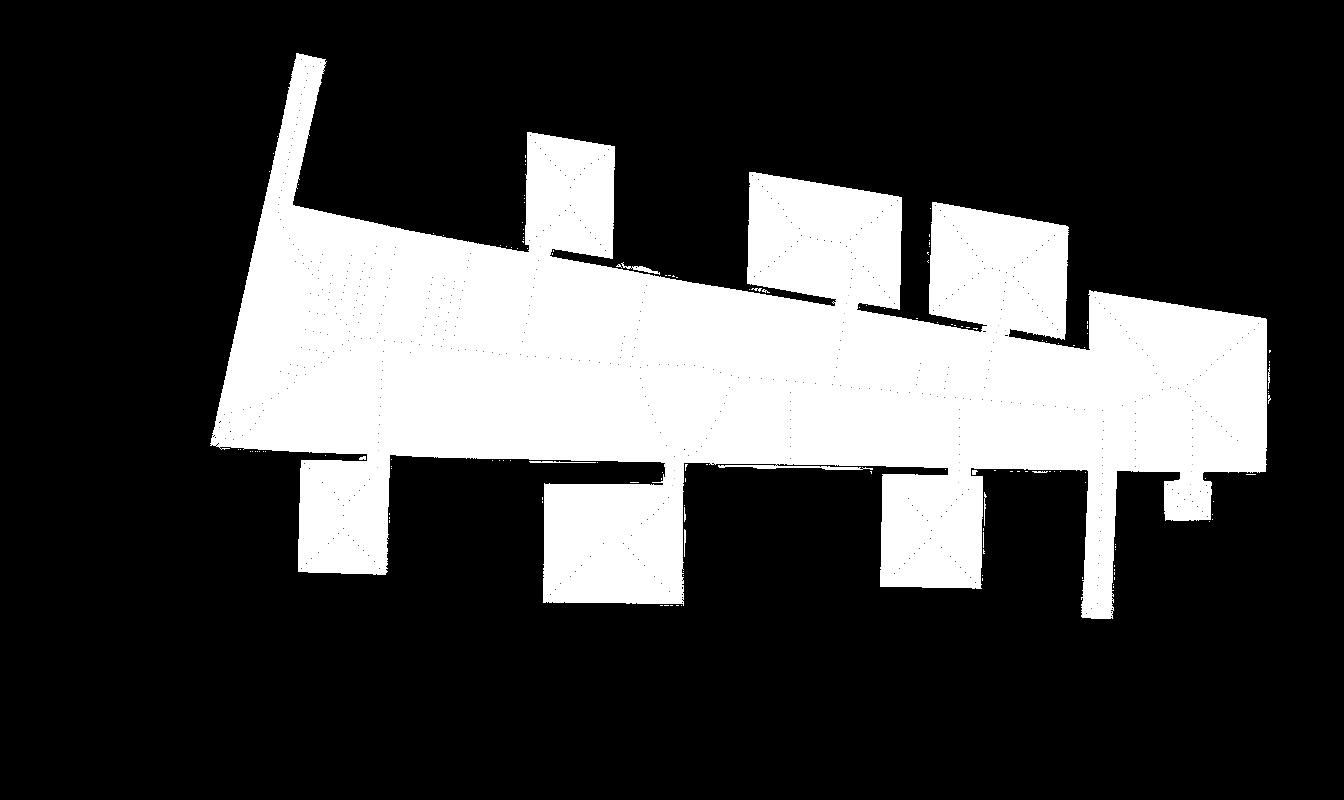
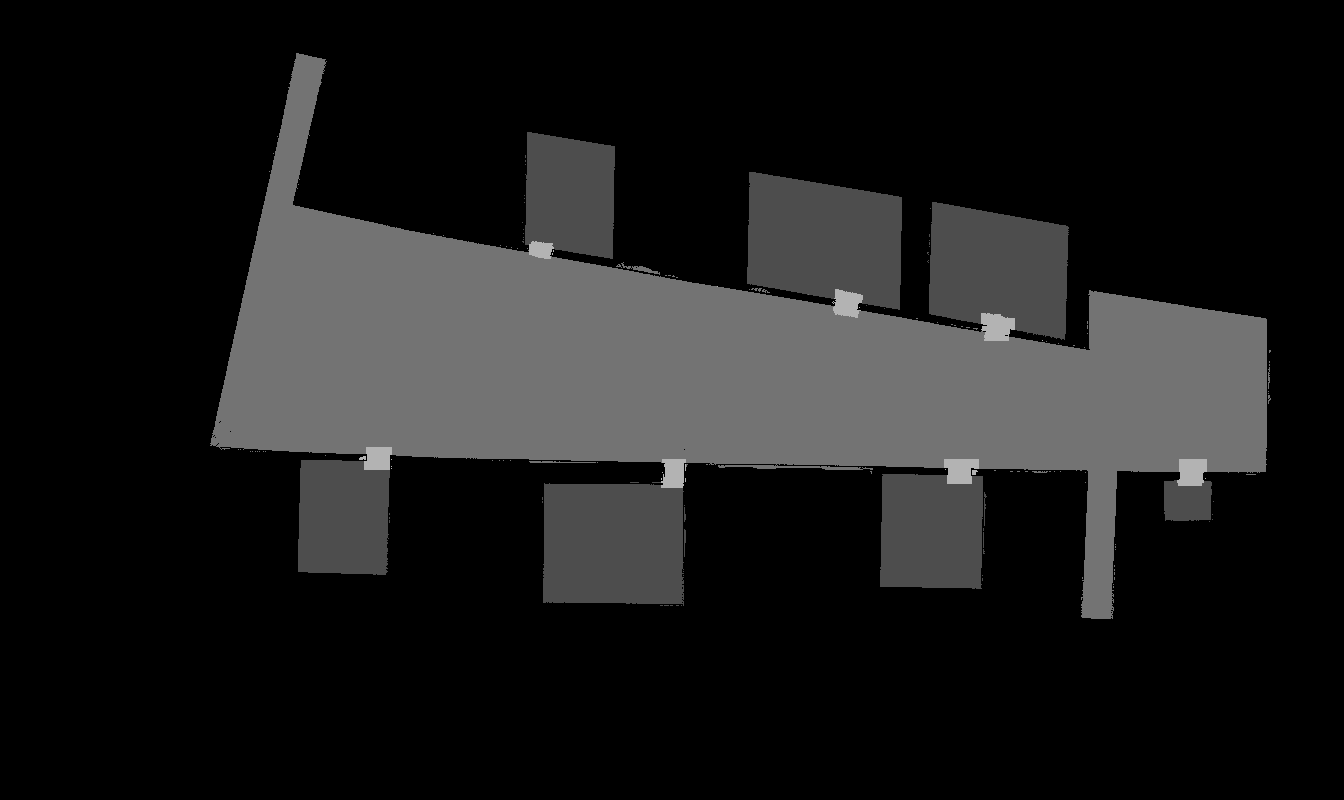
changed vrf-training to completely labeled traning maps

Changed region(s): [[0.1562, 0.0625, 0.9688, 0.7812]]

diff --git a/ipa_room_segmentation/common/src/voronoi_random_field_segmentation.cpp b/ipa_room_segmentation/common/src/voronoi_random_field_segmentation.cpp
@@ -836,7 +836,9 @@ void VoronoiRandomFieldSegmentation::findConditionalWeights(std::vector< std::ve
 //			would be really hard to do directly, a log-likelihood estimation is applied.
 void VoronoiRandomFieldSegmentation::trainAlgorithms(const std::vector<cv::Mat>& original_maps, const std::vector<cv::Mat>& training_maps,
 		std::vector<cv::Mat>& voronoi_maps, const std::vector<cv::Mat>& voronoi_node_maps,
-		std::vector<unsigned int>& possible_labels, const std::string weights_filepath, const std::string boost_filepath)
+		std::vector<unsigned int>& possible_labels, const std::string weights_filepath, const std::string boost_filepath,
+		const int epsilon_for_neighborhood, const int max_iterations, const int min_neighborhood_size,
+		const double min_node_distance)
 {
 	// ********** I. Go trough each map and find the drawn node-points for it and check if it is a voronoi-node. *****************
 	std::vector<std::set<cv::Point, cv_Point_comp> > random_field_node_points, voronoi_node_points;
@@ -863,7 +865,7 @@ void VoronoiRandomFieldSegmentation::trainAlgorithms(const std::vector<cv::Mat>&
 				{
 					// check if the current point is a voronoi-node by checking the color in the voronoi-node map
 					if(current_voronoi_node_map.at<unsigned char>(v, u) != 255 && current_voronoi_node_map.at<unsigned char>(v, u) != 0)
-						current_voronoi_nodes.insert(cv::Point(u,v));
+						current_voronoi_nodes.insert(cv::Point(u, v));
 				}
 			}
 		}
@@ -874,16 +876,13 @@ void VoronoiRandomFieldSegmentation::trainAlgorithms(const std::vector<cv::Mat>&
 		}
 
 		// todo: read in a fully labeled map (not only points) and generate current_nodes accordingly
-		// take the points from thinned out voronoi_maps
-		for(size_t v = 0; v < current_map.rows; ++v)
-		{
-			for(size_t u = 0; u < current_map.cols; ++u)
-			{
-				// if a pixel is drawn in a color different than white or black it is a node of the conditional field
-				if(current_map.at<unsigned char>(v, u) != 255 && current_map.at<unsigned char>(v, u) != 0)
-					current_nodes.insert(cv::Point(u,v));
-			}
-		}
+		// find the conditional random field nodes for the current map
+		cv::Mat distance_map; //distance-map of the original-map (used to check the distance of each point to nearest black pixel)
+		cv::distanceTransform(original_maps[current_map_index], distance_map, CV_DIST_L2, 5);
+		cv::convertScaleAbs(distance_map, distance_map);
+
+		// find all nodes for the conditional random field
+		findConditonalNodes(current_nodes, voronoi_maps[current_map_index], distance_map, current_voronoi_nodes, epsilon_for_neighborhood, max_iterations, min_neighborhood_size, min_node_distance);
 
 		// save the found nodes
 		random_field_node_points.push_back(current_nodes);
@@ -920,7 +919,6 @@ void VoronoiRandomFieldSegmentation::trainAlgorithms(const std::vector<cv::Mat>&
 //  2. It reduces the graph until the nodes in the graph. A node is a point on the voronoi graph, that has at least 3
 //	   neighbors. This deletes errors from the approximate generation of the graph that hasn't been eliminated from
 //	   the drawVoronoi function. the resulting graph is the pruned generalized voronoi graph.
-//	3. It returns the map that has the pruned generalized voronoi-graph drawn in.
 void VoronoiRandomFieldSegmentation::createPrunedVoronoiGraph(cv::Mat& map_for_voronoi_generation, std::set<cv::Point, cv_Point_comp>& node_points)
 {
 	//********************1. Create the Voronoi graph******************************
@@ -928,6 +926,125 @@ void VoronoiRandomFieldSegmentation::createPrunedVoronoiGraph(cv::Mat& map_for_v
 
 	//********************2. Reduce the graph until its nodes******************************
 	pruneVoronoiGraph(map_for_voronoi_generation, node_points);
+}
+
+// This function finds nodes for the conditional random field.
+//	It looks at a given pruned voronoi graph and concentrates a defined region on this graph into one point, that is
+//	used as a node in a graph. In this graph nodes are connected, that
+//		i) are right beside each other
+//		ii) and if a Point in the graph has three or more neighbors all of these four nodes are connected to each other
+//	so that different cliques occur. This is necessary for using a Conditional Random Filed to label the nodes as a
+//	defined class. To do so the following steps are done:
+//		1. Add the previously found node points on the voronoi graph to the Conditional Random Field graph. The algorithm
+//		   checks if they are too close to each other and only adds one of these close points to the crf.
+//		2. Look at an epsilon neighborhood on the graph and choose the point farthest away from the black pixels as
+//		   point for the crf. The farthest point is chosen, because else it would be possible  that the chosen point
+//		   is too near at the black pixels. Also the new node has to be more far away than a defined  min. distance to
+//		   each already found node s.t. two nodes are not too close to each other, or else the  crf would be created wrong.
+void VoronoiRandomFieldSegmentation::findConditonalNodes(std::set<cv::Point, cv_Point_comp>&  conditional_nodes,
+		const cv::Mat& voronoi_map,	const cv::Mat& distance_map, const std::set<cv::Point, cv_Point_comp>& voronoi_nodes,
+		const int epsilon_for_neighborhood,	const int max_iterations, const int min_neighborhood_size,
+		const double min_node_distance)
+{
+	// add the given voronoi nodes as conditional nodes, if they are far away enough from each other
+	for(std::set<cv::Point, cv_Point_comp>::iterator node = voronoi_nodes.begin(); node != voronoi_nodes.end(); ++node)
+	{
+		if(pointMoreFarAway(conditional_nodes, *node, min_node_distance) == true)
+			conditional_nodes.insert(*node);
+	}
+
+	// create a copy of the given voronoi map to keep track of which points already have been looked at
+	cv::Mat voronoi_map_for_node_extraction = voronoi_map.clone();
+
+	// go trough the copied voronoi map and concentrate neighborhoods into one central point
+	for (int v = 0; v < voronoi_map_for_node_extraction.rows; v++)
+	{
+		for (int u = 0; u < voronoi_map_for_node_extraction.cols; u++)
+		{
+			if (voronoi_map_for_node_extraction.at<unsigned char>(v, u) == 127)
+			{
+				int loopcounter = 0; // if a part of the graph is not connected to the rest this variable helps to stop the loop
+				std::set<cv::Point, cv_Point_comp> neighbor_points;	// neighboring-variable, which is different for each point
+				std::set<cv::Point, cv_Point_comp> temporary_points, searching_points;	// Sets that are used to save new found points and expand them in the next iteration.
+																						// temporary points to expand the neighborhood in iterative steps and not in one
+
+				int neighbor_count = 0;		// variable to save the number of neighbors for each point
+
+				neighbor_points.insert(cv::Point(u, v)); //add the current Point to the neighborhood and to the expanding-queue
+				searching_points.insert(cv::Point(u, v));
+
+				do
+				{
+					loopcounter++;
+					// check every point in the neighborhood for other neighbors connected to it
+					for (std::set<cv::Point, cv_Point_comp>::iterator current_neighbor_point = searching_points.begin(); current_neighbor_point != searching_points.end(); ++current_neighbor_point)
+					{
+						for (int row_counter = -1; row_counter <= 1; row_counter++)
+						{
+							for (int column_counter = -1; column_counter <= 1; column_counter++)
+							{
+								// don't check the point itself
+								if(row_counter == 0 && column_counter == 0)
+									continue;
+
+								// check the neighboring points
+								// (if it already is in the neighborhood it doesn't need to be checked again)
+								const int nu = current_neighbor_point->x + column_counter;
+								const int nv = current_neighbor_point->y + row_counter;
+
+								if (neighbor_points.find(cv::Point(nu, nv)) == neighbor_points.end() &&
+										nv >= 0 && nu >= 0 &&
+										nv < voronoi_map_for_node_extraction.rows && nu < voronoi_map_for_node_extraction.cols &&
+										voronoi_map_for_node_extraction.at<unsigned char>(nv, nu) == 127)
+								{
+									neighbor_count++;
+									temporary_points.insert(cv::Point(nu, nv));
+								}
+							}
+						}
+					}
+
+					// go trough every found point after all neighborhood points have been checked and add them to it
+					for (std::set<cv::Point, cv_Point_comp>::iterator temporary_point = temporary_points.begin(); temporary_point != temporary_points.end(); ++temporary_point)
+					{
+						neighbor_points.insert(*temporary_point);
+
+						// make the found points white in the voronoi-map (already looked at)
+						voronoi_map_for_node_extraction.at<unsigned char>(*temporary_point) = 255;
+					}
+
+					// make the current point white --> doesn't need to be looked at anymore
+					voronoi_map_for_node_extraction.at<unsigned char>(v, u) = 255;
+
+					// reassign the new found nodes as new to-be-searched nodes
+					searching_points = temporary_points;
+
+					// check if enough neighbors have been checked or checked enough times (e.g. at a small segment of the graph)
+				}while (neighbor_count <= epsilon_for_neighborhood && loopcounter < max_iterations);
+
+				// only check the neighborhood, if it is large enough --> to prevent nodes that are close to each other
+				if(neighbor_count >= min_neighborhood_size)
+				{
+					// check every found point in the neighborhood if it is the local minimum in the distanceMap and if
+					// this point is far enough away from other node points to prevent too close nodes
+					cv::Point current_conditional_field_point = cv::Point(u, v);
+					for (std::set<cv::Point, cv_Point_comp>::iterator point = neighbor_points.begin(); point != neighbor_points.end(); ++point)
+					{
+						if (distance_map.at<unsigned char>(*point) < distance_map.at<unsigned char>(current_conditional_field_point)
+								&& pointMoreFarAway(conditional_nodes, *point, min_node_distance) == true)
+						{
+							current_conditional_field_point = *point;
+						}
+					}
+					// add the local minimum point to the critical points and check a last time if the node is far enough away
+					// from other nodes (because if no new node is found the initialized gets added every time, neglecting
+					// this constraint)
+					if(pointMoreFarAway(conditional_nodes, current_conditional_field_point, min_node_distance) == true)
+						conditional_nodes.insert(current_conditional_field_point);
+				}
+			}
+		}
+	}
 }
 
 // This function is called to find minimal values of a defined log-likelihood-function using the library Dlib.
@@ -977,18 +1094,7 @@ column_vector VoronoiRandomFieldSegmentation::findMinValue(unsigned int number_o
 //				i) eliminate lines of the graph that start or end in black regions
 //				ii) reduce the graph from after the first step until the nodes of the graph
 //			See the createPrunedVoronoiGraph() function above for better information. OpenCV is used to do this.
-//		II.) It looks at this pruned voronoi graph and concentrates a defined region on this graph into one point, that is
-//			used as a node in a graph. In this graph nodes are connected, that
-//				i) are right beside each other
-//				ii) and if a Point in the graph has three or more neighbors all of these four nodes are connected to each other
-//			so that different cliques occur. This is necessary to use a Conditional Random Filed to label the nodes as a
-//			defined class. To do so the following steps are done:
-//				1. Add the previously found node points on the voronoi graph to the Conditional Random Field graph. The algorithm
-//				   checks if they are too close to each other and only adds one of these close points to the crf.
-//				2. Look at an epsilon neighborhood on the graph and choose the point farthest away from the black pixels as
-//				   point for the crf. The farthest point is chosen, because else it would be possible  that the chosen point
-//				   is too near at the black pixels. Also the new node has to be more far away than a defined  min. distance to
-//				   each already found node s.t. two nodes are not too close to each other, or else the  crf would be created wrong.
+//		II.) It finds Nodes for the Conditional Random Field, using the above defined function findConditionalNodes().
 //		III.) It constructs the Conditional Random Field graph from the previously found points, by using the above defined function.
 //		IV.) It creates a factor graph out of the defined crf. This is necessary, because OpenGM, the library used for inference,
 //			 needs it this way. To do so the algorithm goes trough each found clique and computes the clique-potential of it
@@ -1069,8 +1175,6 @@ void VoronoiRandomFieldSegmentation::segmentMap(const cv::Mat& original_map, cv:
 
 	// ************* II. Extract the nodes used for the conditional random field *************
 	//
-	// 1. Get the points for the conditional random field graph by looking at an epsilon neighborhood.
-
 	std::set<cv::Point, cv_Point_comp> conditional_field_nodes;
 
 	// get the distance transformed map, which shows the distance of every white pixel to the closest zero-pixel
@@ -1078,106 +1182,9 @@ void VoronoiRandomFieldSegmentation::segmentMap(const cv::Mat& original_map, cv:
 	cv::distanceTransform(original_map, distance_map, CV_DIST_L2, 5);
 	cv::convertScaleAbs(distance_map, distance_map);
 
-	cv::Mat voronoi_map_for_node_extraction = voronoi_map.clone();
-
+	// find all nodes for the conditional random field
 	timer.start();
-	// 2. Add the Voronoi graph node points to the conditional random field nodes if they are not too close to each other.
-	for(std::set<cv::Point, cv_Point_comp>::iterator node = node_points.begin(); node != node_points.end(); ++node)
-	{
-		if(pointMoreFarAway(conditional_field_nodes, *node, min_node_distance) == true)
-			conditional_field_nodes.insert(*node);
-	}
-
-	// 3. Find the other node points. They are the points most far away from the black points in the defined epsilon neighborhood.
-	for (int v = 0; v < voronoi_map_for_node_extraction.rows; v++)
-	{
-		for (int u = 0; u < voronoi_map_for_node_extraction.cols; u++)
-		{
-			if (voronoi_map_for_node_extraction.at<unsigned char>(v, u) == 127)
-			{
-				int loopcounter = 0; // if a part of the graph is not connected to the rest this variable helps to stop the loop
-				std::set<cv::Point, cv_Point_comp> neighbor_points;	// neighboring-variable, which is different for each point
-				std::set<cv::Point, cv_Point_comp> temporary_points, searching_points;	// Sets that are used to save new found points and expand them in the next iteration.
-																						// temporary points to expand the neighborhood in iterative steps and not in one
-
-				int neighbor_count = 0;		// variable to save the number of neighbors for each point
-
-				neighbor_points.insert(cv::Point(u, v)); //add the current Point to the neighborhood and to the expanding-queue
-				searching_points.insert(cv::Point(u, v));
-
-				do
-				{
-					loopcounter++;
-					// check every point in the neighborhood for other neighbors connected to it
-					for (std::set<cv::Point, cv_Point_comp>::iterator current_neighbor_point = searching_points.begin(); current_neighbor_point != searching_points.end(); ++current_neighbor_point)
-					{
-						for (int row_counter = -1; row_counter <= 1; row_counter++)
-						{
-							for (int column_counter = -1; column_counter <= 1; column_counter++)
-							{
-								// don't check the point itself
-								if(row_counter == 0 && column_counter == 0)
-									continue;
-
-								// check the neighboring points
-								// (if it already is in the neighborhood it doesn't need to be checked again)
-								const int nu = current_neighbor_point->x + column_counter;
-								const int nv = current_neighbor_point->y + row_counter;
-
-								if (neighbor_points.find(cv::Point(nu, nv)) == neighbor_points.end() &&
-										nv >= 0 && nu >= 0 &&
-										nv < voronoi_map_for_node_extraction.rows && nu < voronoi_map_for_node_extraction.cols &&
-										voronoi_map_for_node_extraction.at<unsigned char>(nv, nu) == 127)
-								{
-									neighbor_count++;
-									temporary_points.insert(cv::Point(nu, nv));
-								}
-							}
-						}
-					}
-
-					// go trough every found point after all neighborhood points have been checked and add them to it
-					for (std::set<cv::Point, cv_Point_comp>::iterator temporary_point = temporary_points.begin(); temporary_point != temporary_points.end(); ++temporary_point)
-					{
-						neighbor_points.insert(*temporary_point);
-
-						// make the found points white in the voronoi-map (already looked at)
-						voronoi_map_for_node_extraction.at<unsigned char>(*temporary_point) = 255;
-					}
-
-					// make the current point white --> doesn't need to be looked at anymore
-					voronoi_map_for_node_extraction.at<unsigned char>(v, u) = 255;
-
-					// reassign the new found nodes as new to-be-searched nodes
-					searching_points = temporary_points;
-
-					// check if enough neighbors have been checked or checked enough times (e.g. at a small segment of the graph)
-				}while (neighbor_count <= epsilon_for_neighborhood && loopcounter < max_iterations);
-
-				// only check the neighborhood, if it is large enough --> to prevent nodes that are close to each other
-				if(neighbor_count >= min_neighborhood_size)
-				{
-					// check every found point in the neighborhood if it is the local minimum in the distanceMap and if
-					// this point is far enough away from other node points to prevent too close nodes
-					cv::Point current_conditional_field_point = cv::Point(u, v);
-					for (std::set<cv::Point, cv_Point_comp>::iterator point = neighbor_points.begin(); point != neighbor_points.end(); ++point)
-					{
-						if (distance_map.at<unsigned char>(*point) < distance_map.at<unsigned char>(current_conditional_field_point)
-								&& pointMoreFarAway(conditional_field_nodes, *point, min_node_distance) == true)
-						{
-							current_conditional_field_point = *point;
-						}
-					}
-					// add the local minimum point to the critical points and check a last time if the node is far enough away
-					// from other nodes (because if no new node is found the initialized gets added every time, neglecting
-					// this constraint)
-					if(pointMoreFarAway(conditional_field_nodes, current_conditional_field_point, min_node_distance) == true)
-						conditional_field_nodes.insert(current_conditional_field_point);
-				}
-			}
-		}
-	}
-
+	findConditonalNodes(conditional_field_nodes, voronoi_map, distance_map, node_points, epsilon_for_neighborhood, max_iterations, min_neighborhood_size, min_node_distance);
 	std::cout << "found all conditional field nodes. Time: " << timer.getElapsedTimeInMilliSec() << "ms" << std::endl;
 
 	// show the node points if wanted

diff --git a/ipa_room_segmentation/common/include/ipa_room_segmentation/voronoi_random_field_segmentation.h b/ipa_room_segmentation/common/include/ipa_room_segmentation/voronoi_random_field_segmentation.h
@@ -187,6 +187,12 @@ protected:
 	// Function that takes a map and draws a pruned voronoi graph in it.
 	void createPrunedVoronoiGraph(cv::Mat& map_for_voronoi_generation, std::set<cv::Point, cv_Point_comp>& node_points);
 
+	// Function to find the Nodes for the conditional random field, given a voronoi-graph.
+	void findConditonalNodes(std::set<cv::Point, cv_Point_comp>&  conditional_nodes, const cv::Mat& voronoi_map,
+			const cv::Mat& distance_map, const std::set<cv::Point, cv_Point_comp>& voronoi_nodes,
+			const int epsilon_for_neighborhood, const int max_iterations, const int min_neighborhood_size,
+			const double min_node_distance);
+
 	// Function to create a conditional random field out of given points. It needs
 	// the voronoi-map extracted from the original map to find the neighbors for each point
 	// and the voronoi-node-points to add the right points as nodes.
@@ -216,7 +222,9 @@ public:
 	// need to be trained to calculate features for the conditional random field.
 	void trainAlgorithms(const std::vector<cv::Mat>& original_maps, const std::vector<cv::Mat>& training_maps,
 			std::vector<cv::Mat>& voronoi_maps, const std::vector<cv::Mat>& voronoi_node_maps,
-			std::vector<unsigned int>& possible_labels, const std::string weights_filepath, const std::string boost_filepath);
+			std::vector<unsigned int>& possible_labels, const std::string weights_filepath, const std::string boost_filepath,
+			const int epsilon_for_neighborhood, const int max_iterations, const int min_neighborhood_size,
+			const double min_node_distance);
 
 	// This function is called to find minimal values of a defined log-likelihood-function using the library Dlib.
 	// This log-likelihood-function is made over all training data to get a likelihood-estimation linear in the weights.

diff --git a/ipa_room_segmentation/ros/src/room_segmentation_server.cpp b/ipa_room_segmentation/ros/src/room_segmentation_server.cpp
@@ -487,7 +487,8 @@ void RoomSegmentationServer::execute_segmentation_server(const ipa_building_msgs
 //			training_map = cv::imread(package_path + "/common/files/training_maps/voronoi_random_field_training/original_maps/lab_c_furnitures_original.png", 0);
 //			original_maps.push_back(training_map);
 			//train the algorithm
-			vrf_segmentation.trainAlgorithms(training_maps, voronoi_maps, voronoi_node_maps, original_maps, possible_labels, conditional_weights_path, boost_file_path);
+			vrf_segmentation.trainAlgorithms(training_maps, voronoi_maps, voronoi_node_maps, original_maps, possible_labels, conditional_weights_path, boost_file_path,
+					voronoi_random_field_epsilon_for_neighborhood_, max_iterations_, min_neighborhood_size_, min_voronoi_random_field_node_distance_);
 		}
 		doorway_points_.clear();
 		vrf_segmentation.segmentMap(original_img, segmented_map, voronoi_random_field_epsilon_for_neighborhood_, max_iterations_,

diff --git a/ipa_room_segmentation/ros/src/room_segmentation_client.cpp b/ipa_room_segmentation/ros/src/room_segmentation_client.cpp
@@ -165,7 +165,7 @@ int main(int argc, char **argv)
 
 		// test dynamic reconfigure
 		DynamicReconfigureClient drc(nh, "room_segmentation_server/set_parameters", "room_segmentation_server/parameter_updates");
-		drc.setConfig("room_segmentation_algorithm", 3);
+		drc.setConfig("room_segmentation_algorithm", 5);
 		//drc.setConfig("room_area_factor_upper_limit_voronoi", 120.0);
 
 		// send a goal to the action
